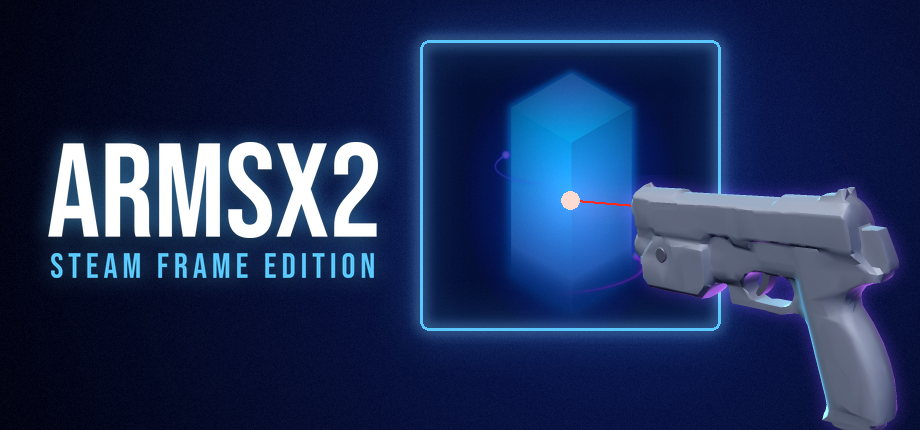
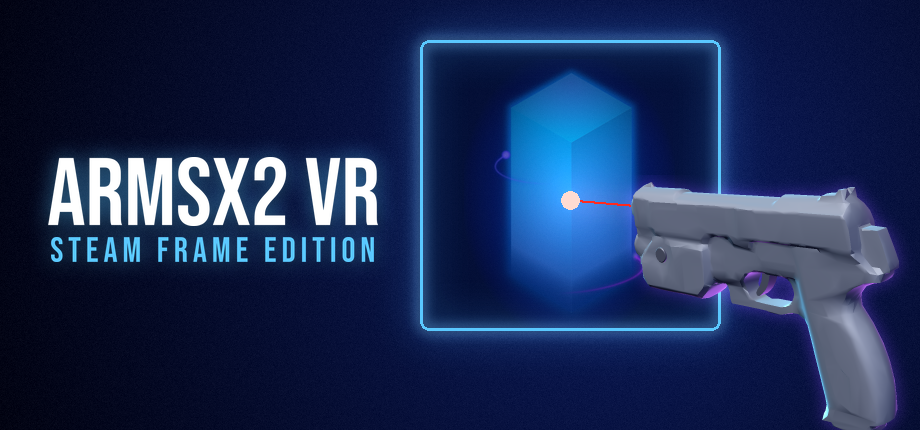
Name: ARMSX2 VR Steam Frame Edition in the Steam library and art
The library entry, the installer app, the release notes and the Steam
artwork (capsule, wide capsule, logo, installer logo) now carry the
README's name. The game id stays ARMSX2, so installs update in place.

Changed region(s): [[0.0304, 0.3023, 0.4261, 0.6651]]

diff --git a/tools/steam-frame/installer/ui/index.html b/tools/steam-frame/installer/ui/index.html
@@ -129,7 +129,7 @@ footer .credit { margin-top: 4px; }
 </head>
 <body>
 <header>
-   <img class="logo" src="logo.png" alt="ARMSX2, Steam Frame Edition">
+   <img class="logo" src="logo.png" alt="ARMSX2 VR Steam Frame Edition">
    <span class="tag">Installer</span>
 </header>
 <main>
@@ -185,7 +185,7 @@ footer .credit { margin-top: 4px; }
    </section>
 </main>
 <footer>
-   ARMSX2: Steam Frame Edition - free software, not affiliated with Valve, Sony or the ARMSX2 and PCSX2 teams.
+   ARMSX2 VR Steam Frame Edition - free software, not affiliated with Valve, Sony or the ARMSX2 and PCSX2 teams.
    <a href="https://github.com/SPD13/arm-sx2-vr-steam-frame" target="_blank" rel="noopener">Project page</a>
    <span id="version"></span>
    <span id="quit-box" class="hidden"> - <button class="link" id="quit">Quit the installer</button></span>

diff --git a/tools/steam-art/make_art.py b/tools/steam-art/make_art.py
@@ -1,4 +1,4 @@
-"""Build the Steam library artwork for "ARMSX2 - Steam Frame Edition" into assets/steam/, the regular set without the
+"""Build the Steam library artwork for "ARMSX2 VR Steam Frame Edition" into assets/steam/, the regular set without the
 Alpha badge into assets/steam-final/, and the installer page's hero.jpg and logo.png.
 Usage: python make_art.py <repo root>
 Sources: the ARMSX2 app icon (glowing pillar), the Bebas Neue font from the ARMSX2 Android app
@@ -22,7 +22,7 @@ UI = os.path.join(ROOT, 'tools/steam-frame/installer/ui')
 # Leaving Alpha: set this to False and rerun (or copy assets/steam-final/ over assets/steam/).
 ALPHA = True
 
-TITLE, SUBTITLE = 'ARMSX2', 'STEAM FRAME EDITION'
+TITLE, SUBTITLE = 'ARMSX2 VR', 'STEAM FRAME EDITION'
 CYAN = (90, 200, 255); VIOLET = (170, 80, 255); RED = (255, 40, 30); AMBER = (255, 170, 30)
 
 # ---------- helpers ----------
@@ -76,7 +76,7 @@ def text_layer(text, font, tracking=0, fill=(255, 255, 255, 255)):
     return im.crop(im.getbbox())
 
 def title_block(width, colour_sub=CYAN):
-    """'ARMSX2' over a tracked 'STEAM FRAME EDITION', both centred, `width` px wide (transparent)."""
+    """'ARMSX2 VR' over a tracked 'STEAM FRAME EDITION', both centred, `width` px wide (transparent)."""
     big = text_layer(TITLE, ImageFont.truetype(BEBAS, 400))
     big = big.resize((width, round(big.height * width / big.width)), Image.LANCZOS)
     sub_font = ImageFont.truetype(BEBAS, 200)

diff --git a/tools/steam-frame/installer/app.go b/tools/steam-frame/installer/app.go
@@ -32,7 +32,7 @@ const (
 	projectURL   = "https://github.com/SPD13/arm-sx2-vr-steam-frame"
 	bugReportURL = projectURL + "/issues/new?template=bug_report.yml"
 	releaseAPI   = "https://api.github.com/repos/SPD13/arm-sx2-vr-steam-frame/releases/latest"
-	libraryName  = "ARMSX2 - Steam Frame Edition"
+	libraryName  = "ARMSX2 VR Steam Frame Edition"
 	defaultUser  = "steamos"
 	defaultHost  = "frame.local"
 	neededFreeKB = 800_000 // the old and the new game side by side while installing, and the unpacked download
@@ -771,7 +771,7 @@ func (a *app) saveLogs() {
 	if installed.Present {
 		game = "version " + installed.Version
 	}
-	about := fmt.Sprintf("ARMSX2 - Steam Frame Edition logs, saved %s\n\nInstaller: %s on %s/%s\nGame on the Frame: %s\nLatest release: %s\nFrom the Frame: %s\n",
+	about := fmt.Sprintf("ARMSX2 VR Steam Frame Edition logs, saved %s\n\nInstaller: %s on %s/%s\nGame on the Frame: %s\nLatest release: %s\nFrom the Frame: %s\n",
 		time.Now().Format("2006-01-02 15:04:05 -0700"), version, runtime.GOOS, runtime.GOARCH, game, latest.Version, strings.Join(found, ", "))
 	if missing != "" {
 		about += "\n" + missing + "\n"

diff --git a/tools/steam-frame/installer/main.go b/tools/steam-frame/installer/main.go
@@ -1,4 +1,4 @@
-// ARMSX2 - Steam Frame Edition installer: a desktop app (Windows, macOS, Linux) that finds a Steam Frame on the network,
+// ARMSX2 VR Steam Frame Edition installer: a desktop app (Windows, macOS, Linux) that finds a Steam Frame on the network,
 // checks it can be installed to (Developer Mode, password, Steam running, free space), then downloads the latest release from
 // GitHub and installs or updates the game on the Frame, all over its own ssh connection: nothing else needs to be installed on
 // the computer, and the password is asked once. Ported from the Visual Pinball X - Steam Frame Edition installer.
@@ -34,7 +34,7 @@ import (
 	"time"
 )
 
-const appTitle = "ARMSX2 - Steam Frame Edition Installer"
+const appTitle = "ARMSX2 VR Steam Frame Edition Installer"
 
 var version = "dev" // set by make-installer.sh
 

diff --git a/tools/steam-frame/README.md b/tools/steam-frame/README.md
@@ -1,6 +1,6 @@
 # Steam Frame install and releases
 
-ARMSX2 - Steam Frame Edition installs on the Frame as a Steam devkit title. The game sits in `~/devkit-game/<gameid>/`, and its `run.sh` starts it inside the Steam Linux Runtime 4.0 ARM64, which must be installed from the Steam library. In the library it shows as **ARMSX2 - Steam Frame Edition**, with the artwork and icon from `assets/steam/` (see `tools/steam-art/README.md`). It works the same way as the Visual Pinball X and CitraVR Steam Frame ports: Valve's devkit scripts register the title, and the Steam client names it and sets its icon.
+ARMSX2 VR Steam Frame Edition installs on the Frame as a Steam devkit title. The game sits in `~/devkit-game/<gameid>/`, and its `run.sh` starts it inside the Steam Linux Runtime 4.0 ARM64, which must be installed from the Steam library. In the library it shows as **ARMSX2 VR Steam Frame Edition**, with the artwork and icon from `assets/steam/` (see `tools/steam-art/README.md`). It works the same way as the Visual Pinball X and CitraVR Steam Frame ports: Valve's devkit scripts register the title, and the Steam client names it and sets its icon.
 
 ## For players: the installer app
 
@@ -22,7 +22,7 @@ The installer's log is in the user cache folder, under `armsx2-frame-installer/i
 
 | Script | Runs on | What it does |
 |---|---|---|
-| `deploy-to-frame.sh [gameid]` | your computer | Syncs, builds on the Frame, then updates the library's **ARMSX2 - Steam Frame Edition** (gameid `ARMSX2`) with that build, versioned `<date>-<short commit>-dev`. Another gameid installs a separate copy. The game files never leave the Frame. |
+| `deploy-to-frame.sh [gameid]` | your computer | Syncs, builds on the Frame, then updates the library's **ARMSX2 VR Steam Frame Edition** (gameid `ARMSX2`) with that build, versioned `<date>-<short commit>-dev`. Another gameid installs a separate copy. The game files never leave the Frame. |
 | `make-release.sh [version]` | your computer | Syncs, builds on the Frame, stages the release there and downloads it to `build/release/armsx2-steam-frame-<version>.tar.gz`. The version defaults to `<date>-<short commit>`. |
 | `make-installer.sh [version]` | a Mac | Builds the installer app for Windows (x64), macOS (universal) and Linux (x86_64, arm64) into `build/installer/`. Needs Go (`brew install go`) and Xcode's command line tools. |
 | `stage-release.sh` | the Frame | Assembles the release folder: the game with debug info stripped, the install tools, the artwork, Valve's devkit scripts, `LICENSE`, `THIRD_PARTY_NOTICES.md` and `SOURCE.md`. |

diff --git a/README.md b/README.md
@@ -86,7 +86,7 @@ If a check turns red, it says what is wrong and what to do. For example, wake th
 
 ### 5. Play
 
-On the Frame, open **Library > Non-Steam > ARMSX2 - Steam Frame Edition**. While the project is in Alpha, its library art carries an **ALPHA** badge. If the library still shows plain artwork, restart the headset.
+On the Frame, open **Library > Non-Steam > ARMSX2 VR Steam Frame Edition**. While the project is in Alpha, its library art carries an **ALPHA** badge. If the library still shows plain artwork, restart the headset.
 
 Put the headset on: the screen appears ahead of you, facing the room's forward direction (SteamVR's recenter sets it), and the game list opens.
 
@@ -517,7 +517,7 @@ tools/run-frame.sh path/to/game.iso   # starts a game directly
 
 ### Install your build in the Steam library
 
-The game installs in the Frame's Steam library as **ARMSX2 - Steam Frame Edition**, with its artwork and icon from `assets/steam/`. While the project is in Alpha, that art carries an **ALPHA** badge; the same art without the badge is kept in `assets/steam-final/` for the first release after Alpha (see [`tools/steam-art/README.md`](tools/steam-art/README.md)). Players use the installer app (see [Getting started](#getting-started)). For development, `tools/steam-frame/deploy-to-frame.sh` builds on the Frame and updates that same library entry with the build, using the same steps. Releases, the installer app and the deploy script are covered in [`tools/steam-frame/README.md`](tools/steam-frame/README.md).
+The game installs in the Frame's Steam library as **ARMSX2 VR Steam Frame Edition**, with its artwork and icon from `assets/steam/`. While the project is in Alpha, that art carries an **ALPHA** badge; the same art without the badge is kept in `assets/steam-final/` for the first release after Alpha (see [`tools/steam-art/README.md`](tools/steam-art/README.md)). Players use the installer app (see [Getting started](#getting-started)). For development, `tools/steam-frame/deploy-to-frame.sh` builds on the Frame and updates that same library entry with the build, using the same steps. Releases, the installer app and the deploy script are covered in [`tools/steam-frame/README.md`](tools/steam-frame/README.md).
 
 ## License
 

diff --git a/tools/steam-art/README.md b/tools/steam-art/README.md
@@ -1,6 +1,6 @@
 # Steam library artwork
 
-`make_art.py` builds the Steam library images for **ARMSX2 - Steam Frame Edition** into `assets/steam/`. The installer copies them into Steam's grid folder when it adds the non-Steam shortcut. The script also writes the installer app's page images, `tools/steam-frame/installer/ui/hero.jpg` (the hero at 1500×484) and `logo.png` (the logo at 228 px tall), from the same art.
+`make_art.py` builds the Steam library images for **ARMSX2 VR Steam Frame Edition** into `assets/steam/`. The installer copies them into Steam's grid folder when it adds the non-Steam shortcut. The script also writes the installer app's page images, `tools/steam-frame/installer/ui/hero.jpg` (the hero at 1500×484) and `logo.png` (the logo at 228 px tall), from the same art.
 
 While the project is in Alpha, every image that ships has an **ALPHA** badge: `assets/steam/` and the installer page images. The same five images without the badge are written to `assets/steam-final/` on each run, ready for when the project leaves Alpha.
 

diff --git a/THIRD_PARTY_NOTICES.md b/THIRD_PARTY_NOTICES.md
@@ -1,6 +1,6 @@
 # Third-party notices
 
-ARMSX2 - Steam Frame Edition is free software under the GNU General Public License version 3 or later (`LICENSE`). The game and the installer apps also contain the third-party code below, under its own licence. Each one asks for its notice to come with the programs built from it, which is what this file is for.
+ARMSX2 VR Steam Frame Edition is free software under the GNU General Public License version 3 or later (`LICENSE`). The game and the installer apps also contain the third-party code below, under its own licence. Each one asks for its notice to come with the programs built from it, which is what this file is for.
 
 ## The game (`ps2v`)
 
